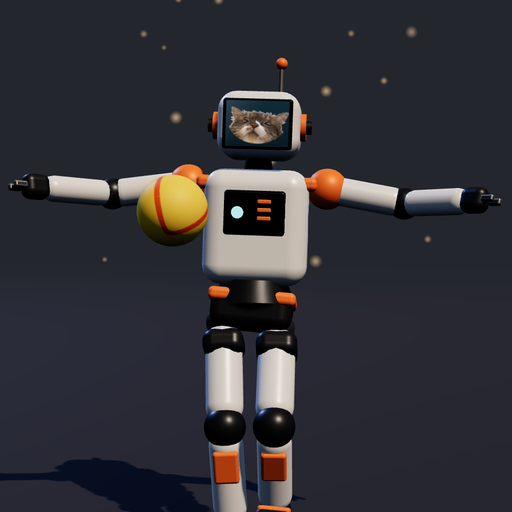
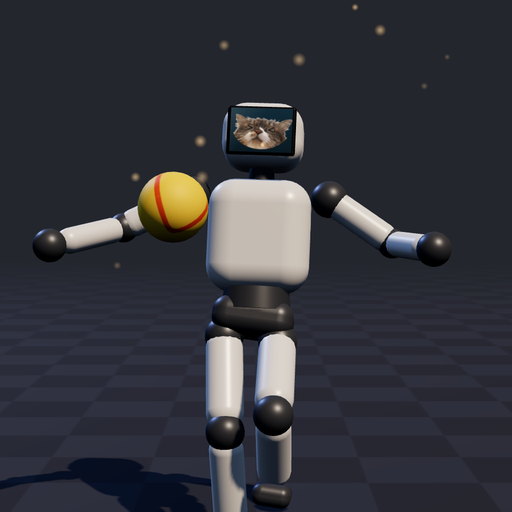
起き上がりロボ: 地面に薄い市松模様、ロボットの見た目をシンプルに
Claude-Session: https://claude.ai/code/session_018pgCBxzYqxv2eKUQwshA48

diff --git a/games/robot-stand/index.html b/games/robot-stand/index.html
@@ -284,8 +284,17 @@ const rim = new THREE.DirectionalLight(0x8fb4ff, 1.2);
 rim.position.set(-3, 3, -4);
 scene.add(rim, rim.target);
 
-// 地面: 暗い単色（霧で背景にとけこむ）
-const ground = new THREE.Mesh(new THREE.PlaneGeometry(80, 80), new THREE.MeshStandardMaterial({ color: 0x2c3039, roughness: 0.95 }));
+// 地面: 暗い色に薄い市松模様（50cmのマス。遠近感がわかるように）。遠くは霧で背景にとけこむ
+const checkTex = (() => {
+  const c = document.createElement('canvas'); c.width = c.height = 128; const x = c.getContext('2d');
+  x.fillStyle = '#2c3039'; x.fillRect(0, 0, 128, 128);
+  x.fillStyle = '#343944'; x.fillRect(0, 0, 64, 64); x.fillRect(64, 64, 64, 64);
+  const tx = new THREE.CanvasTexture(c); tx.colorSpace = THREE.SRGBColorSpace;
+  tx.wrapS = tx.wrapT = THREE.RepeatWrapping; tx.repeat.set(80, 80);
+  tx.magFilter = THREE.NearestFilter; tx.anisotropy = renderer.capabilities.getMaxAnisotropy();
+  return tx;
+})();
+const ground = new THREE.Mesh(new THREE.PlaneGeometry(80, 80), new THREE.MeshStandardMaterial({ map: checkTex, roughness: 0.95 }));
 ground.rotation.x = -Math.PI / 2;
 ground.receiveShadow = true;
 scene.add(ground);
@@ -293,12 +302,8 @@ scene.add(ground);
 // ===== ロボットの見た目 =====
 const M = {
   white: new THREE.MeshStandardMaterial({ color: 0xeef0f2, roughness: 0.32, metalness: 0.05 }),
-  dark: new THREE.MeshStandardMaterial({ color: 0x3b4049, roughness: 0.35, metalness: 0.7 }),
-  steel: new THREE.MeshStandardMaterial({ color: 0x9aa3ad, roughness: 0.25, metalness: 0.9 }),
-  orange: new THREE.MeshStandardMaterial({ color: 0xff7a2f, roughness: 0.45, metalness: 0.1 }),
-  rubber: new THREE.MeshStandardMaterial({ color: 0x1d2025, roughness: 0.9 }),
+  dark: new THREE.MeshStandardMaterial({ color: 0x5a606b, roughness: 0.4, metalness: 0.5 }),
   glass: new THREE.MeshStandardMaterial({ color: 0x0b0e12, roughness: 0.15, metalness: 0.3 }),
-  lamp: new THREE.MeshStandardMaterial({ color: 0x55d6ff, emissive: 0x2fbfff, emissiveIntensity: 1.6, roughness: 0.4 }),
 };
 const geoCache = new Map();
 const geo = (key, make) => { if (!geoCache.has(key)) geoCache.set(key, make()); return geoCache.get(key); };
@@ -374,54 +379,25 @@ function addVisual(name, build) {
   g.traverse(o => { o.userData.part = p; });
   visuals.push({ part: p, group: g, pp: new THREE.Vector3(), pq: new THREE.Quaternion(), cp: new THREE.Vector3(), cq: new THREE.Quaternion() });
 }
-addVisual('pelvis', g => {
-  mesh(rbox(0.3, 0.14, 0.2, 0.045), M.dark, g);
-  mesh(rbox(0.32, 0.05, 0.215, 0.02), M.orange, g, 0, 0.045, 0);
-  for (const s of [-1, 1]) mesh(sph(0.065), M.steel, g, s * 0.1, -0.05, 0);
-});
+// シンプルな見た目: 白い外装＋グレーの関節＋顔のモニター
+addVisual('pelvis', g => { mesh(rbox(0.3, 0.14, 0.2, 0.06), M.dark, g); });
 addVisual('torso', g => {
-  mesh(rbox(0.38, 0.42, 0.24, 0.07), M.white, g, 0, 0.01, 0);
-  mesh(cyl(0.12, 0.15, 0.08), M.dark, g, 0, -0.22, 0); // 腰のじゃばら
-  mesh(rbox(0.22, 0.16, 0.03, 0.012), M.glass, g, 0, 0.06, 0.12);
-  mesh(cyl(0.022, 0.022, 0.012), M.lamp, g, -0.06, 0.06, 0.137, { rx: Math.PI / 2 });
-  for (let i = 0; i < 3; i++) mesh(rbox(0.05, 0.016, 0.01, 0.005), M.orange, g, 0.035 + i * 0.0, 0.1 - i * 0.03, 0.137);
-  mesh(rbox(0.26, 0.28, 0.1, 0.03), M.dark, g, 0, 0.02, -0.15); // 背中のバッテリー
-  mesh(cyl(0.045, 0.055, 0.06), M.dark, g, 0, 0.24, 0); // 首
-  for (const s of [-1, 1]) mesh(rbox(0.06, 0.05, 0.16, 0.02), M.orange, g, s * 0.19, 0.17, 0);
+  mesh(rbox(0.38, 0.42, 0.24, 0.1), M.white, g, 0, 0.01, 0);
+  mesh(cyl(0.12, 0.13, 0.08), M.dark, g, 0, -0.22, 0); // 腰
+  mesh(cyl(0.045, 0.05, 0.06), M.dark, g, 0, 0.24, 0); // 首
 });
 addVisual('head', g => {
-  mesh(rbox(0.3, 0.24, 0.26, 0.07), M.white, g);
-  mesh(rbox(0.25, 0.18, 0.02, 0.02), M.glass, g, 0, -0.005, 0.125);
+  mesh(rbox(0.3, 0.24, 0.26, 0.09), M.white, g);
+  mesh(rbox(0.25, 0.18, 0.02, 0.03), M.glass, g, 0, -0.005, 0.125);
   const scr = new THREE.Mesh(new THREE.PlaneGeometry(0.225, 0.162), new THREE.MeshBasicMaterial({ map: faceTex, toneMapped: false }));
   scr.position.set(0, -0.005, 0.1365); g.add(scr); pickables.push(scr);
-  for (const s of [-1, 1]) {
-    mesh(cyl(0.05, 0.05, 0.03), M.orange, g, s * 0.155, 0, 0, { rz: Math.PI / 2 });
-    mesh(cyl(0.025, 0.025, 0.035), M.dark, g, s * 0.172, 0, 0, { rz: Math.PI / 2 });
-  }
-  mesh(cyl(0.008, 0.008, 0.12), M.steel, g, 0.07, 0.17, -0.03);
-  mesh(sph(0.022), M.orange, g, 0.07, 0.235, -0.03);
 });
 for (const k of ['L', 'R']) {
-  const s = k === 'L' ? 1 : -1;
-  addVisual('thigh' + k, g => { mesh(cap(0.068, 0.25), M.white, g); mesh(rbox(0.15, 0.1, 0.15, 0.04), M.dark, g, 0, 0.11, 0); });
-  addVisual('shin' + k, g => {
-    mesh(cap(0.062, 0.24), M.white, g);
-    mesh(sph(0.075), M.dark, g, 0, 0.19, 0);
-    mesh(rbox(0.09, 0.12, 0.03, 0.012), M.orange, g, 0, 0.06, 0.06);
-    mesh(cyl(0.05, 0.06, 0.06), M.dark, g, 0, -0.17, 0);
-  });
-  addVisual('foot' + k, g => {
-    mesh(rbox(0.14, 0.07, 0.25, 0.03), M.dark, g, 0, 0.01, 0);
-    mesh(rbox(0.145, 0.025, 0.255, 0.01), M.rubber, g, 0, -0.033, 0);
-    mesh(rbox(0.12, 0.03, 0.08, 0.012), M.orange, g, 0, 0.04, 0.07);
-  });
-  addVisual('upper' + k, g => { mesh(cap(0.052, 0.2), M.white, g); mesh(sph(0.075), M.orange, g, 0, 0.14, 0); });
-  addVisual('fore' + k, g => {
-    mesh(cap(0.047, 0.19), M.white, g);
-    mesh(sph(0.058), M.dark, g, 0, 0.15, 0);
-    mesh(rbox(0.09, 0.1, 0.07, 0.03), M.dark, g, 0, -0.17, 0.005); // 手
-    for (const dz of [-1, 1]) mesh(rbox(0.025, 0.05, 0.02, 0.008), M.steel, g, s * -0.04 * 0, -0.235, dz * 0.022);
-  });
+  addVisual('thigh' + k, g => { mesh(cap(0.068, 0.25), M.white, g); mesh(sph(0.072), M.dark, g, 0, 0.17, 0); });
+  addVisual('shin' + k, g => { mesh(cap(0.062, 0.24), M.white, g); mesh(sph(0.07), M.dark, g, 0, 0.19, 0); });
+  addVisual('foot' + k, g => { mesh(rbox(0.14, 0.08, 0.25, 0.035), M.dark, g, 0, 0, 0); });
+  addVisual('upper' + k, g => { mesh(cap(0.052, 0.2), M.white, g); mesh(sph(0.068), M.dark, g, 0, 0.14, 0); });
+  addVisual('fore' + k, g => { mesh(cap(0.047, 0.19), M.white, g); mesh(sph(0.055), M.dark, g, 0, 0.15, 0); mesh(sph(0.06), M.dark, g, 0, -0.18, 0); });
 }
 function readPose(v, to) { const t = v.part.body.translation(), q = v.part.body.rotation(); to.p.set(t.x, t.y, t.z); to.q.set(q.x, q.y, q.z, q.w); }
 for (const v of visuals) { readPose(v, { p: v.cp, q: v.cq }); v.pp.copy(v.cp); v.pq.copy(v.cq); }
